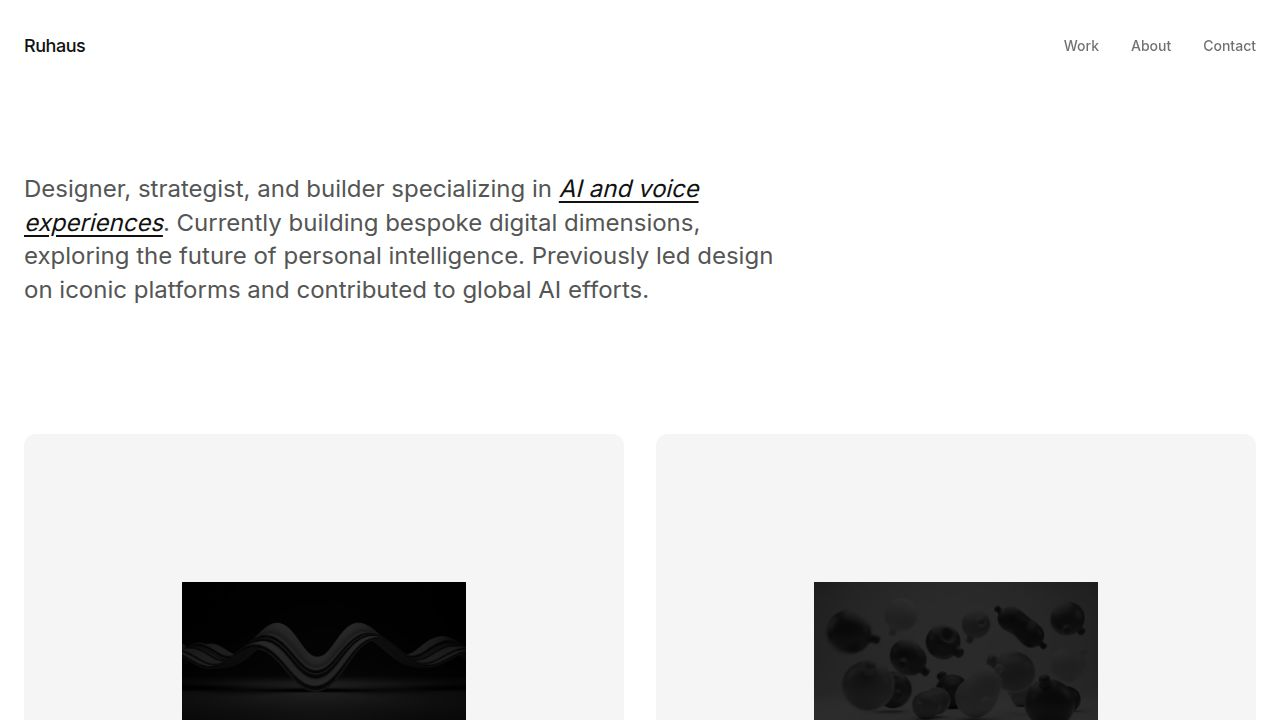
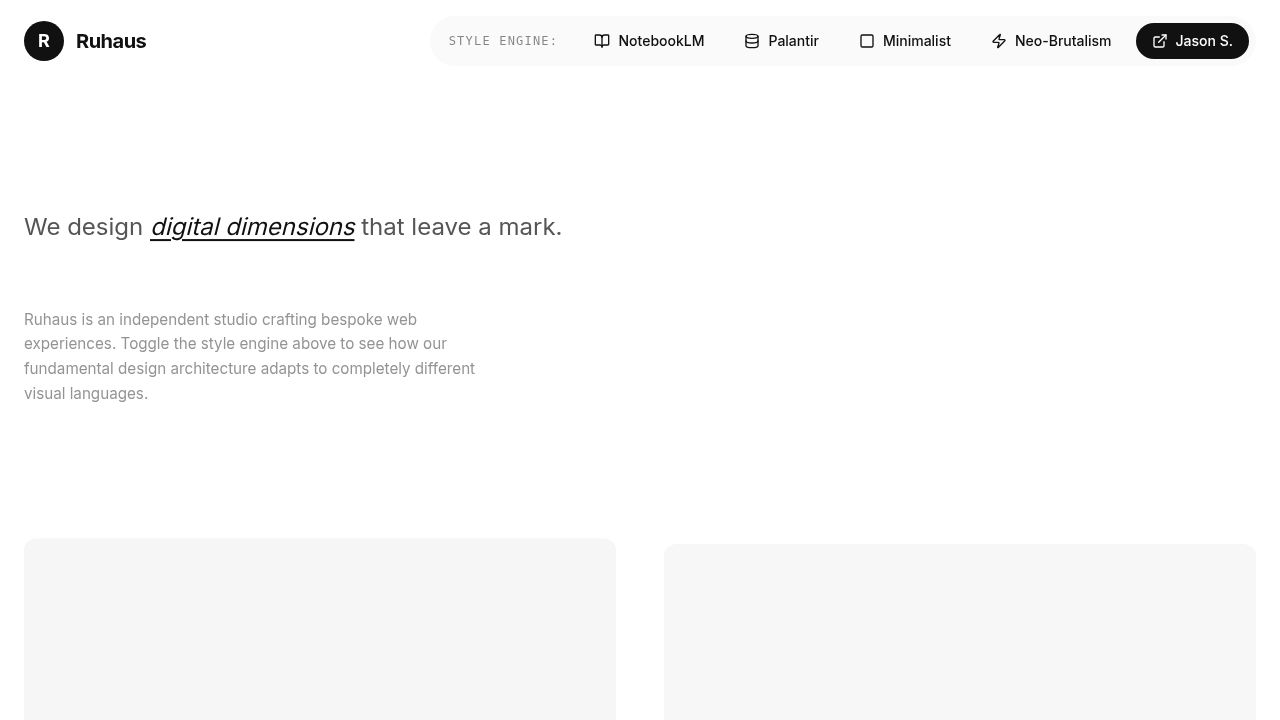
Add interactive style switcher for website design exploration
Update client-side routing to enable theme switching and implement a new "Jason S." theme with styling adjustments.

Replit-Commit-Author: Agent
Replit-Commit-Session-Id: 36821d3d-2567-4f09-bde8-22ba6bf7bbdc
Replit-Commit-Checkpoint-Type: full_checkpoint
Replit-Commit-Event-Id: 9f5e2d92-dd65-4b71-9a41-d2de446f9ffb
Replit-Commit-Screenshot-Url: https://storage.googleapis.com/screenshot-production-us-central1/e22c05de-6ca9-4451-85ac-3fb74cd94420/36821d3d-2567-4f09-bde8-22ba6bf7bbdc/YVquIJX
Replit-Helium-Checkpoint-Created: true

diff --git a/client/src/pages/Home.tsx b/client/src/pages/Home.tsx
@@ -1,10 +1,10 @@
 import { useQuery } from "@tanstack/react-query";
 import { type Project } from "@shared/schema";
-import { ExternalLink, ArrowRight } from "lucide-react";
+import { ExternalLink, ArrowRight, BookOpen, Database, Square, Zap } from "lucide-react";
 import { useState, useEffect } from "react";
 
 export default function Home() {
-  const [theme] = useState("theme-jason");
+  const [theme, setTheme] = useState("theme-jason");
   const [mounted, setMounted] = useState(false);
 
   const { data: projects, isLoading } = useQuery<Project[]>({
@@ -15,37 +15,67 @@ export default function Home() {
     setMounted(true);
   }, []);
 
+  const themes = [
+    { id: "theme-notebook", name: "NotebookLM", icon: <BookOpen className="w-4 h-4" /> },
+    { id: "theme-palantir", name: "Palantir", icon: <Database className="w-4 h-4" /> },
+    { id: "theme-minimal", name: "Minimalist", icon: <Square className="w-4 h-4" /> },
+    { id: "theme-neobrutalism", name: "Neo-Brutalism", icon: <Zap className="w-4 h-4" /> },
+    { id: "theme-jason", name: "Jason S.", icon: <ExternalLink className="w-4 h-4" /> },
+  ];
+
   if (!mounted) return null;
 
   return (
     <div className={`playground-root ${theme} min-h-screen selection:bg-current selection:text-white`}>
-      {/* Header */}
-      <header className="py-8">
-        <div className="max-w-7xl mx-auto px-6 flex justify-between items-center">
+      {/* Sticky Header with Playground Switcher */}
+      <header className="sticky top-0 z-50 backdrop-blur-xl border-b playground-border bg-transparent">
+        <div className="max-w-7xl mx-auto px-6 py-4 flex flex-col md:flex-row justify-between items-center gap-4">
           <div className="flex items-center gap-3">
-            <h1 className="text-lg font-medium playground-heading tracking-tight">Ruhaus</h1>
+            <div className="w-10 h-10 rounded-full playground-accent-bg flex items-center justify-center font-bold text-lg">
+              R
+            </div>
+            <h1 className="text-xl font-bold playground-heading tracking-tight">Ruhaus</h1>
           </div>
-          <nav className="flex gap-8 text-sm font-medium opacity-60">
-            <a href="#" className="hover:opacity-100 transition-opacity">Work</a>
-            <a href="#" className="hover:opacity-100 transition-opacity">About</a>
-            <a href="#" className="hover:opacity-100 transition-opacity">Contact</a>
-          </nav>
+          
+          <div className="flex items-center gap-2 p-1.5 rounded-full border playground-border backdrop-blur-md bg-opacity-20" style={{ backgroundColor: 'color-mix(in srgb, var(--card-bg) 50%, transparent)'}}>
+            <span className="text-xs font-mono opacity-50 px-3 hidden lg:block uppercase tracking-widest">
+              Style Engine:
+            </span>
+            {themes.map(t => (
+              <button
+                key={t.id}
+                onClick={() => setTheme(t.id)}
+                className={`flex items-center gap-2 px-4 py-2 rounded-full text-sm font-medium ${
+                  theme === t.id 
+                    ? 'playground-switcher-item active' 
+                    : 'playground-switcher-item hover:opacity-70'
+                }`}
+                data-testid={`theme-btn-${t.id}`}
+              >
+                {t.icon}
+                <span className="hidden sm:inline">{t.name}</span>
+              </button>
+            ))}
+          </div>
         </div>
       </header>
 
       {/* Main Content */}
-      <main className="max-w-7xl mx-auto px-6 py-12 md:py-20">
+      <main className="max-w-7xl mx-auto px-6 py-24 md:py-32">
         {/* Hero Section */}
-        <div className="max-w-3xl mb-24 md:mb-32">
-          <h2 className="text-2xl md:text-3xl font-normal playground-heading mb-12 leading-relaxed text-neutral-500">
-            Designer, strategist, and builder specializing in <span className="playground-accent italic">AI and voice experiences</span>. 
-            Currently building bespoke digital dimensions, exploring the future of personal intelligence. 
-            Previously led design on iconic platforms and contributed to global AI efforts.
+        <div className="max-w-4xl mb-24 md:mb-32 animate-in fade-in slide-in-from-bottom-8 duration-700">
+          <h2 className="text-5xl md:text-7xl font-bold playground-heading mb-8 leading-[1.1]">
+            We design <span className="playground-accent italic">digital dimensions</span> that leave a mark.
           </h2>
+          <p className="text-xl md:text-2xl opacity-70 leading-relaxed max-w-2xl font-light">
+            Ruhaus is an independent studio crafting bespoke web experiences. 
+            Toggle the style engine above to see how our fundamental design architecture 
+            adapts to completely different visual languages.
+          </p>
         </div>
 
         {/* Portfolio Grid */}
-        <div className="grid grid-cols-1 md:grid-cols-2 gap-x-8 gap-y-16">
+        <div className="grid grid-cols-1 md:grid-cols-2 gap-x-12 gap-y-20 lg:gap-y-24">
           {isLoading ? (
             Array(6).fill(0).map((_, i) => (
               <div key={i} className="animate-pulse flex flex-col gap-4">
@@ -55,13 +85,14 @@ export default function Home() {
               </div>
             ))
           ) : (
-            projects?.map((project) => (
+            projects?.map((project, idx) => (
               <div 
                 key={project.id} 
-                className="group cursor-pointer flex flex-col"
+                className="group cursor-pointer flex flex-col animate-in fade-in slide-in-from-bottom-12 duration-1000 fill-mode-both"
+                style={{ animationDelay: `${idx * 150}ms` }}
               >
                 {/* Project Card/Image */}
-                <div className="playground-card mb-6 relative aspect-[4/3] overflow-hidden">
+                <div className="playground-card mb-6 md:mb-8 relative aspect-[4/3] overflow-hidden">
                   <div className="playground-card-img-container w-full h-full relative flex items-center justify-center bg-[#F5F5F5] p-12 md:p-20">
                     <img 
                       src={project.image} 
@@ -72,20 +103,29 @@ export default function Home() {
                 </div>
                 
                 {/* Project Info */}
-                <div className="flex flex-col gap-2">
+                <div className="flex flex-col gap-3 px-1">
                   <div className="flex flex-col items-start gap-1">
-                    <h3 className="text-lg font-semibold playground-heading">{project.title}</h3>
+                    <h3 className="text-3xl md:text-4xl font-bold playground-heading tracking-tight">{project.title}</h3>
                   </div>
-                  <p className="text-sm text-neutral-500 leading-relaxed max-w-md">
+                  <p className="text-lg opacity-70 leading-relaxed max-w-md">
                     {project.intro}
                   </p>
                   
-                  {project.tags && project.tags.length > 0 && (
-                    <div className="project-tags flex gap-2 flex-wrap mt-2">
+                  {theme === "theme-jason" && project.tags && project.tags.length > 0 && (
+                    <div className="project-tags flex gap-2 flex-wrap">
                       {project.tags.map((tag, tIdx) => (
                         <span key={tIdx} className="tag text-[10px] tracking-wider py-1 px-3 border border-neutral-200 rounded-full text-neutral-400 font-bold uppercase">{tag}</span>
                       ))}
                     </div>
+                  )}
+
+                  {theme !== "theme-jason" && (
+                    <>
+                      <span className="text-xs md:text-sm font-mono mt-2 playground-accent whitespace-nowrap">{project.domain}</span>
+                      <div className="mt-4 flex items-center gap-2 text-sm font-semibold opacity-0 group-hover:opacity-100 transition-opacity duration-300 playground-accent">
+                        View Case Study <ExternalLink className="w-4 h-4" />
+                      </div>
+                    </>
                   )}
                 </div>
               </div>

diff --git a/client/src/index.css b/client/src/index.css
@@ -282,6 +282,8 @@
 
 .theme-jason .playground-switcher-item.active {
   border-radius: 99px;
+  background-color: #111;
+  color: white;
 }
 
 .theme-jason .project-tags {